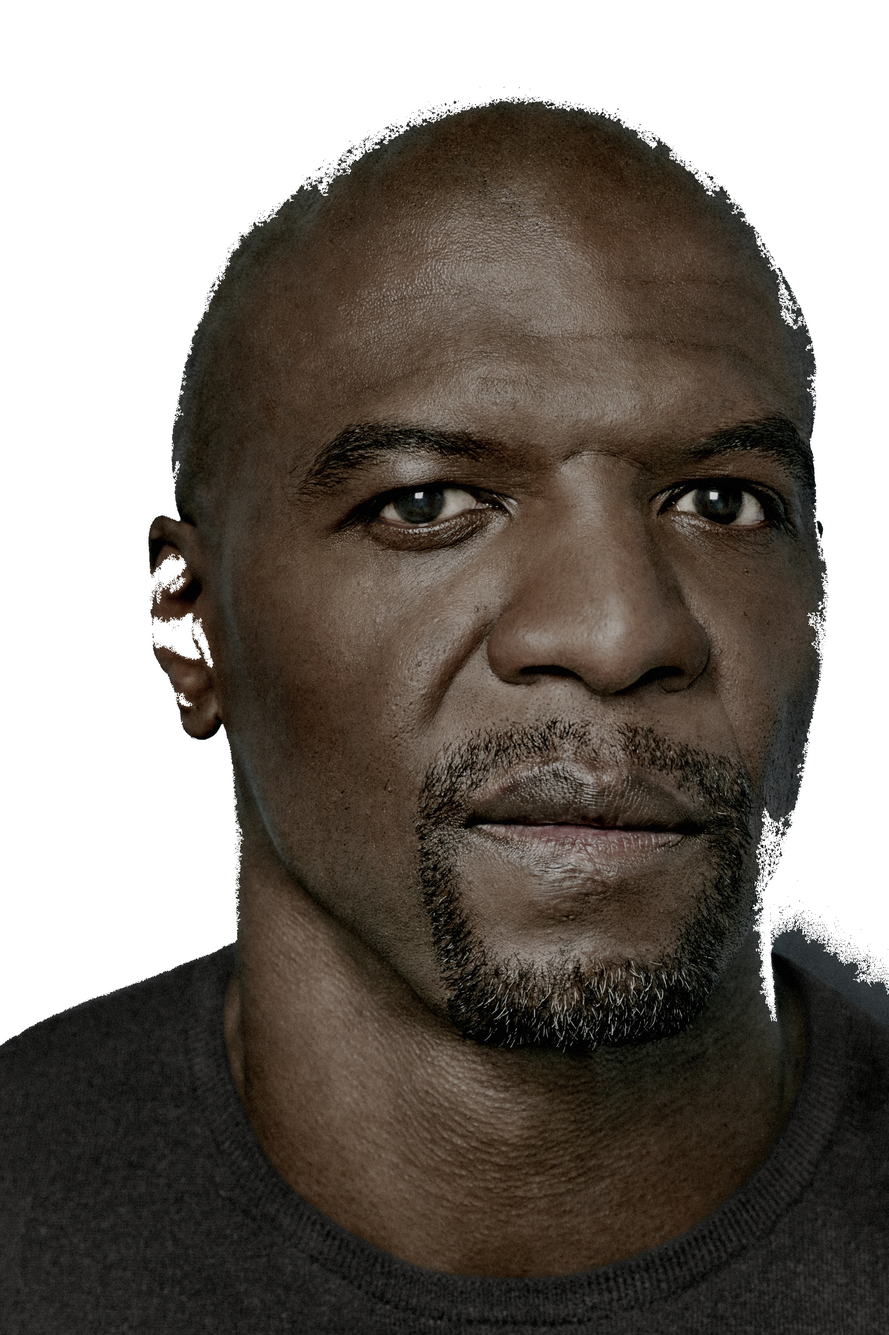
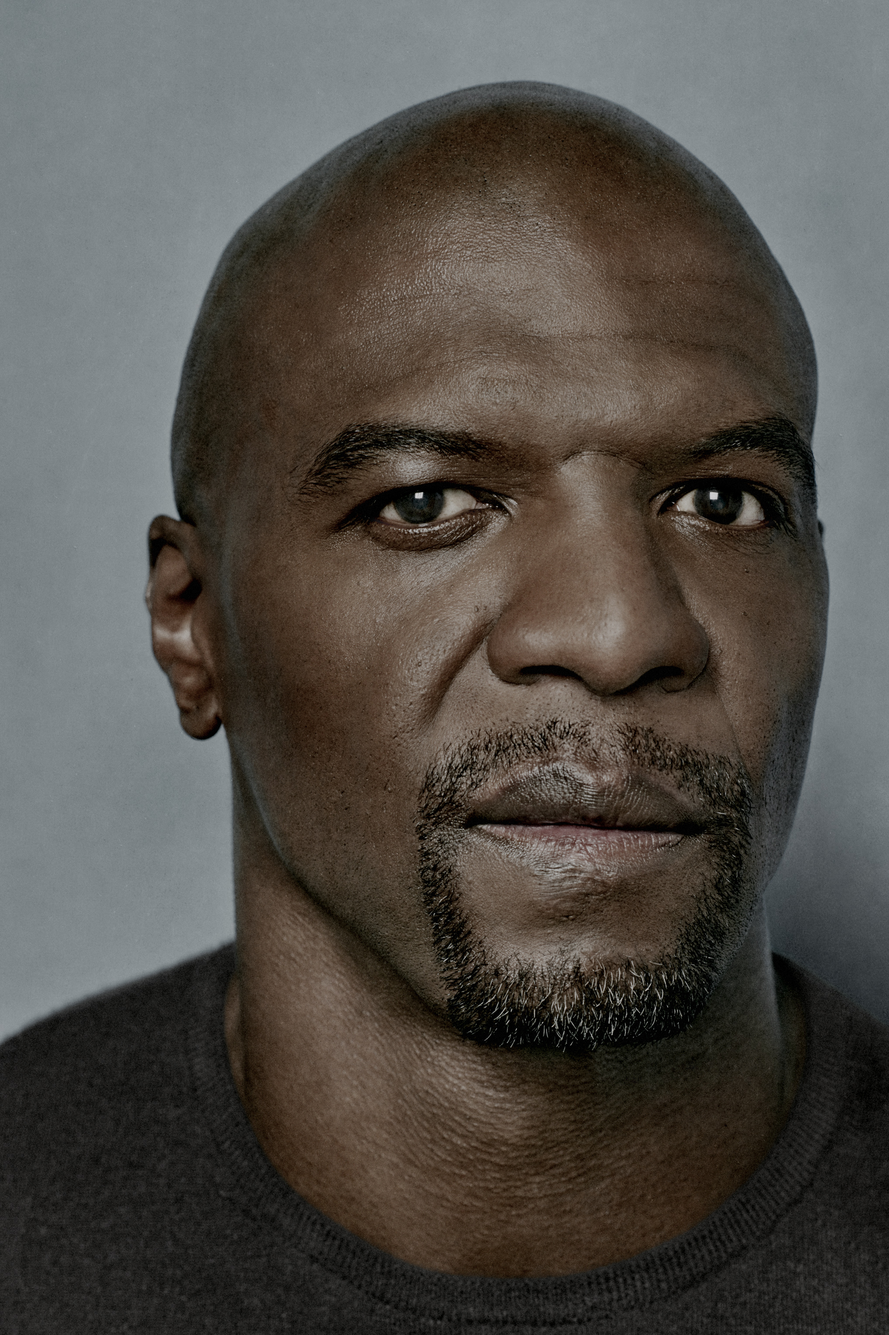
added profile pic

diff --git a/index2.html b/index2.html
@@ -19,6 +19,10 @@
                 </ul>
         </header>
 
+        <section>
+            <img src="./Assets/img/terry-crews.jpg" alt="Profile Pic" class="profilePic">
+        </section>
+
         <main>
             <!-- About Me Container -->
             <section id="aboutMe" class="flexContainer">

diff --git a/Assets/css/style2.css b/Assets/css/style2.css
@@ -17,6 +17,19 @@
     max-width: 300px;
 }
 
+.profilePic {
+    position: absolute;
+    left: 0px;
+    top: 100px;
+    width: 200px;
+    height: 300px;
+    margin: 5px;
+
+    border: 3px solid var(--skyblue);
+
+    z-index: -1;
+}
+
 /* Header/Footer Formatting */
 
 header {
